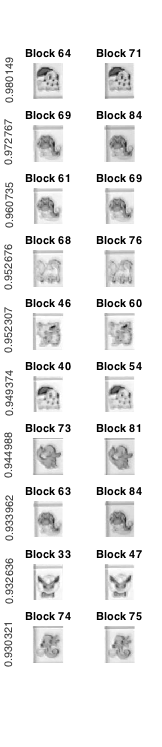
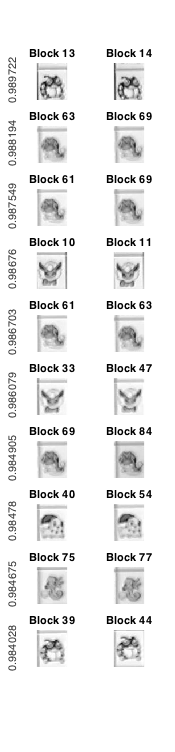
Using smaller parts to match

Changed region(s): [[0.1543, 0.0616, 0.4321, 0.8929], [0.5864, 0.0616, 0.8951, 0.8929], [0.0, 0.0616, 0.0926, 0.8929]]

diff --git a/src/match_imgs.m b/src/match_imgs.m
@@ -1,8 +1,10 @@
 %% match_imgs: Match images
-function similarity = match_imgs(imgs, order)
+function similarity = match_imgs(imgs, order, margin_ratio)
     img_num = numel(imgs);
     high_imgs = cell(img_num, 1);
     similarity = eye(img_num);
+
+    margin = round(margin_ratio * size(imgs{1}));
 
     for k = 1:img_num
         high_imgs{k} = highpass_img(imgs{k}, order);
@@ -10,7 +12,17 @@ function similarity = match_imgs(imgs, order)
 
     for k1 = 1:img_num-1
         for k2 = k1+1:img_num
-            corr = max(max(normxcorr2(high_imgs{k1}, high_imgs{k2})));
+            img1 = high_imgs{k1};
+            img2 = high_imgs{k2};
+
+            corr1 = max(max(normxcorr2(img1(1+margin(1):end-margin(1), ...
+                                            1+margin(2):end-margin(2)), ...
+                                       img2)));
+            corr2 = max(max(normxcorr2(img2(1+margin(1):end-margin(1), ...
+                                            1+margin(2):end-margin(2)), ...
+                                       img1)));
+            corr = max([corr1 corr2]);
+
             similarity(k1, k2) = corr;
             similarity(k2, k1) = corr;
         end

diff --git a/src/map_game.m b/src/map_game.m
@@ -20,3 +20,16 @@ function [ground, legends] = map_game(imgs, matches, values, ...
             ground(ground == kinds(2)) = kinds(1);
         end  % Else already the same.
     end
+
+    % Normalize kind number.
+    new_kind_num = 1;
+    for kind = 1:kind_num-1
+        poses = find(ground == kind);
+        if poses
+            ground(poses) = new_kind_num;
+            legends{new_kind_num} = legends{kind};
+            new_kind_num = new_kind_num + 1;
+        end
+    end
+
+    legends = legends(1:new_kind_num-1);
